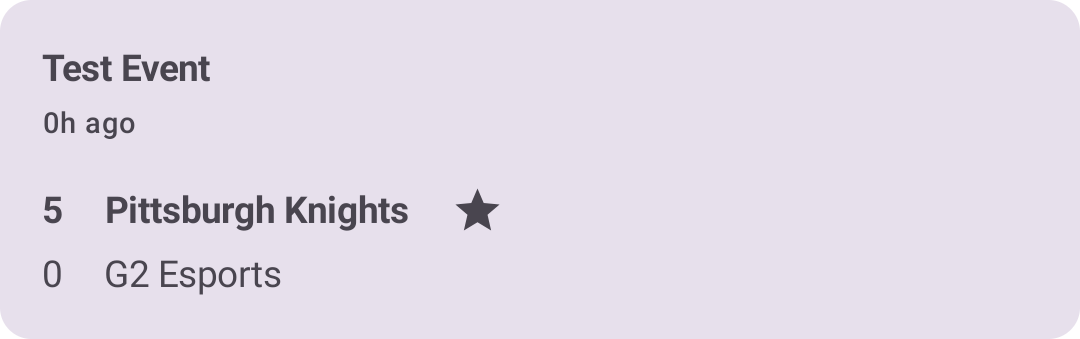
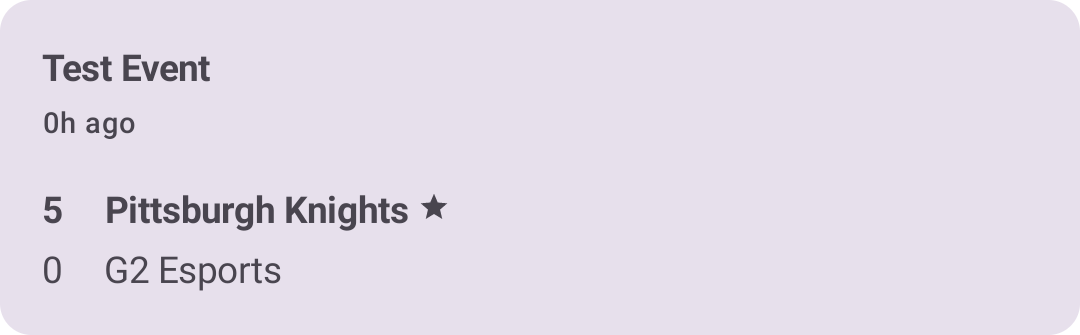
Fixing how star works.

diff --git a/app/src/main/java/com/adammcneilly/pocketleague/ui/MatchListItem.kt b/app/src/main/java/com/adammcneilly/pocketleague/ui/MatchListItem.kt
@@ -8,8 +8,9 @@ import androidx.compose.foundation.layout.defaultMinSize
 import androidx.compose.foundation.layout.fillMaxWidth
 import androidx.compose.foundation.layout.height
 import androidx.compose.foundation.layout.padding
-import androidx.compose.foundation.layout.size
 import androidx.compose.foundation.shape.CircleShape
+import androidx.compose.foundation.text.InlineTextContent
+import androidx.compose.foundation.text.appendInlineContent
 import androidx.compose.material.icons.Icons
 import androidx.compose.material.icons.filled.Star
 import androidx.compose.material3.Card
@@ -19,9 +20,13 @@ import androidx.compose.material3.MaterialTheme
 import androidx.compose.material3.Text
 import androidx.compose.runtime.Composable
 import androidx.compose.ui.Modifier
+import androidx.compose.ui.text.Placeholder
+import androidx.compose.ui.text.PlaceholderVerticalAlign
+import androidx.compose.ui.text.buildAnnotatedString
 import androidx.compose.ui.text.font.FontWeight
 import androidx.compose.ui.text.style.TextOverflow
 import androidx.compose.ui.unit.dp
+import androidx.compose.ui.unit.sp
 import com.adammcneilly.pocketleague.shared.models.Match
 import com.adammcneilly.pocketleague.shared.models.MatchTeamResult
 import com.google.accompanist.placeholder.material.placeholder
@@ -84,6 +89,10 @@ fun MatchListItem(
     }
 }
 
+/**
+ * NOTE: For showing the little star icon after the team name, we referenced
+ * this StackOverflow answer. https://stackoverflow.com/a/67611627/3131147
+ */
 @Composable
 private fun MatchTeamResultRow(
     teamResult: MatchTeamResult,
@@ -108,8 +117,17 @@ private fun MatchTeamResultRow(
                 )
         )
 
+        val nameText = buildAnnotatedString {
+            append(teamResult.team.name)
+
+            if (teamResult.winner) {
+                append(" ")
+                appendInlineContent("inlineContent", "[winner]")
+            }
+        }
+
         Text(
-            text = teamResult.team.name,
+            text = nameText,
             fontWeight = fontWeight,
             modifier = Modifier
                 .defaultMinSize(minWidth = 100.dp)
@@ -117,16 +135,29 @@ private fun MatchTeamResultRow(
                     visible = teamResult.team.name.isBlank(),
                     shape = CircleShape,
                     color = MaterialTheme.colorScheme.inverseSurface,
+                ),
+            inlineContent = if (teamResult.winner) {
+                mapOf(
+                    Pair(
+                        "inlineContent",
+                        InlineTextContent(
+                            Placeholder(
+                                width = 12.sp,
+                                height = 12.sp,
+                                placeholderVerticalAlign = PlaceholderVerticalAlign.AboveBaseline,
+                            )
+                        ) {
+                            Icon(
+                                Icons.Filled.Star,
+                                contentDescription = null,
+                            )
+                        }
+                    )
                 )
+            } else {
+                mapOf()
+            },
         )
-
-        if (teamResult.winner) {
-            Icon(
-                Icons.Filled.Star,
-                contentDescription = null,
-                modifier = Modifier.size(20.dp),
-            )
-        }
     }
 }
 
